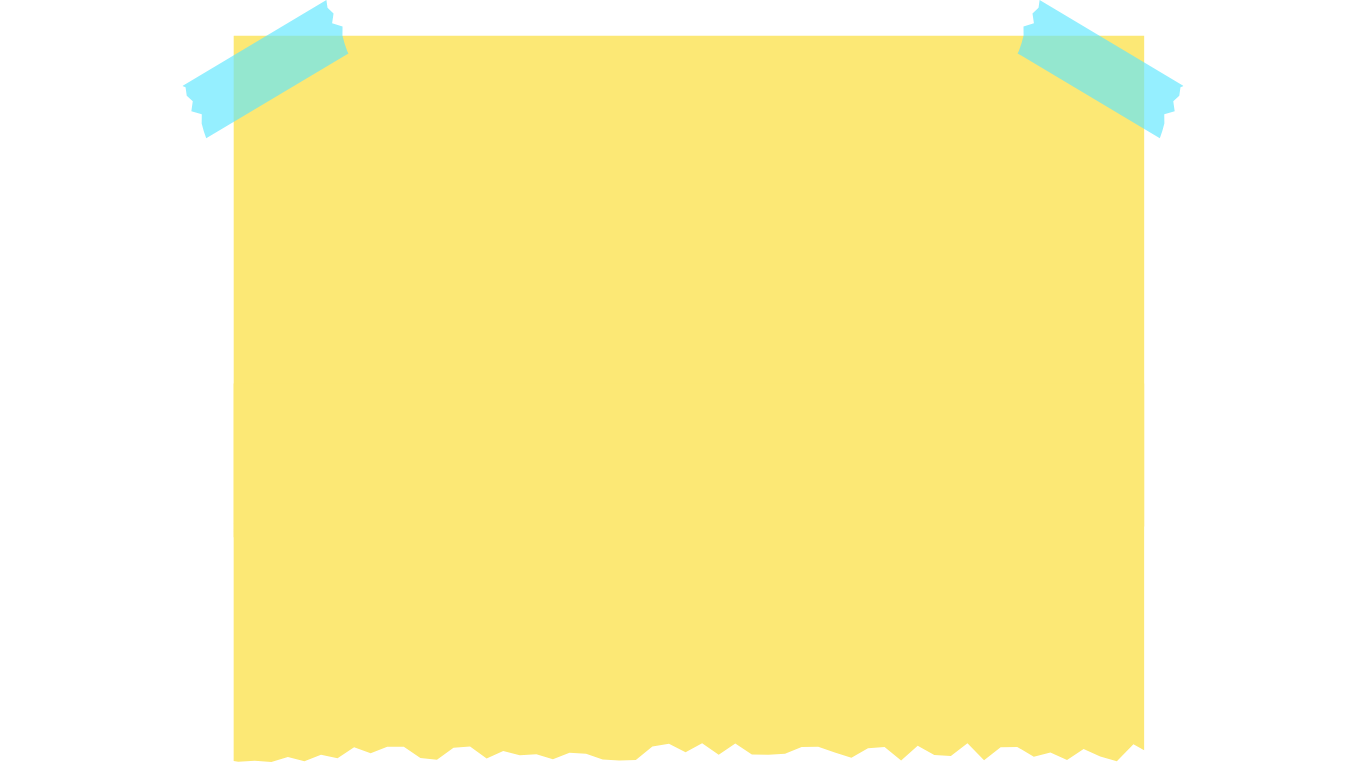
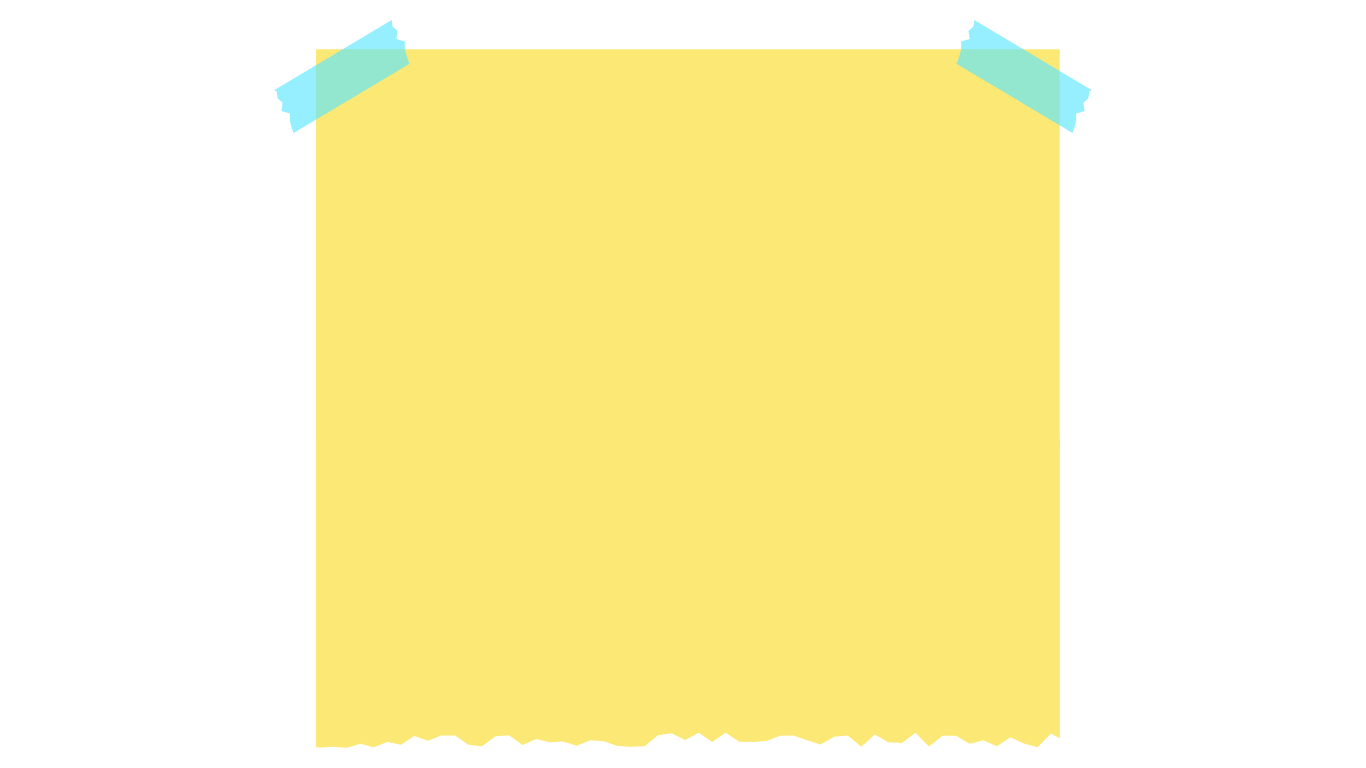
Cập nhật giao diện bảng xếp hạng: thay thế tiêu đề bằng hình ảnh và điều chỉnh kiểu dáng cho các thành phần liên quan

Changed region(s): [[0.123, 0.0, 0.8609, 1.0]]

diff --git a/views/dashboard/dashboard_styles.html b/views/dashboard/dashboard_styles.html
@@ -638,6 +638,10 @@
     display: block;
   }
 
+  .forest-leaderboard-card .frame-image.leaderboard-frame {
+    transform: translateX(-50%) scale(0.86);
+  }
+
   /* Ensure content overlays the frame image */
   .zone3-left .glass-card-header,
   .quest-card .glass-card-header {
@@ -662,7 +666,7 @@
     position: relative;
     z-index: 1;
     background: transparent !important;
-    padding: 120px 42px 85px 42px;
+    padding: 120px 32px 85px 32px;
   }
 
   .zone3-left .glass-card-body {
@@ -743,8 +747,8 @@
   .activity-hist-item.activity-clickable {
     cursor: pointer;
     border-radius: 8px;
-    padding: 0.75rem 0.5rem;
-    margin: 0 -0.5rem;
+    padding: 0.75rem 0.25rem;
+    margin: 0 -0.25rem;
   }
 
   .activity-hist-item:last-child {
@@ -802,6 +806,7 @@
   .activity-hist-content {
     flex: 1;
     min-width: 0;
+    max-width: calc(100% - 22px);
   }
 
   .activity-hist-top {
@@ -875,7 +880,7 @@
     display: flex;
     align-items: center;
     gap: 0.65rem;
-    padding: 0.4rem 0.2rem; /* Giảm khoảng cách giữa các item */
+    padding: 0.4rem 0.05rem; /* Giảm khoảng cách giữa các item */
     background: transparent;
     border-radius: 8px;
     margin-bottom: 0;
@@ -912,6 +917,7 @@
   .quest-body {
     flex: 1;
     min-width: 0;
+    max-width: calc(100% - 26px);
   }
 
   .quest-title {
@@ -2506,18 +2512,14 @@
 #page-dashboard .forest-leaderboard-card {
   position: relative !important;
   width: 100%;
-  min-height: 560px;
+  min-height: 640px;
   margin: 36px auto 70px !important;
   padding: 0 !important;
   overflow: visible !important;
   border-radius: 26px !important;
-  border: 2px solid rgba(79, 140, 91, 0.45) !important;
-  background:
-    radial-gradient(circle at 20% 18%, rgba(255, 255, 255, 0.9), transparent 26%),
-    linear-gradient(180deg, #f8fff6 0%, #edf8eb 100%) !important;
-  box-shadow:
-    0 22px 46px rgba(43, 91, 55, 0.18),
-    inset 0 0 0 1px rgba(255, 255, 255, 0.75) !important;
+  border: none !important;
+  background: transparent !important;
+  box-shadow: none !important;
 }
 
 /* Tắt ảnh nền bảng xếp hạng cũ */
@@ -2525,61 +2527,27 @@
   display: none !important;
 }
 
-/* Thanh tiêu đề xanh đậm phía trên */
-#page-dashboard .forest-leaderboard-card .forest-leaderboard-header {
-  position: relative !important;
-  top: auto !important;
-  left: auto !important;
-  width: 100%;
-  height: 86px;
-  display: flex !important;
-  justify-content: flex-start !important;
-  align-items: center !important;
-  padding: 0 36px !important;
-  border-radius: 24px 24px 0 0;
-  background:
-    linear-gradient(180deg, rgba(37, 105, 61, 0.98), rgba(24, 79, 45, 0.98)) !important;
-  border-bottom: 2px solid rgba(118, 174, 125, 0.5);
-  box-shadow:
-    inset 0 1px 0 rgba(255, 255, 255, 0.22),
-    0 8px 18px rgba(28, 89, 49, 0.14);
-  z-index: 5;
-}
-
-#page-dashboard .forest-title-board {
-  display: flex;
-  align-items: center;
-  gap: 16px;
-}
-
-#page-dashboard .forest-title-icon {
-  font-size: 1.65rem;
-}
-
-#page-dashboard .forest-title-content h3 {
-  font-family: "Fredoka", sans-serif;
-  font-size: 1.25rem;
-  font-weight: 900;
-  color: #ffffff !important;
-  margin: 0;
-  text-transform: none;
-  letter-spacing: 0.01em;
-  text-shadow: 0 2px 8px rgba(0, 0, 0, 0.18);
-}
-
 /* Vùng body của bảng */
 #page-dashboard .forest-leaderboard-card .glass-card-body {
   position: relative;
   z-index: 1;
-  padding: 0 !important;
+  padding: 44px 42px 44px !important;
   background: transparent !important;
+  display: flex;
+  align-items: center;
+  justify-content: center;
 }
 
 /* Board chính */
 #page-dashboard .lb-paper-board {
   position: relative;
-  min-height: 470px;
-  padding: 58px 56px 56px;
+  min-height: 560px;
+  width: 100%;
+  padding: 0;
+  display: flex;
+  flex-direction: column;
+  align-items: center;
+  justify-content: center;
 }
 
 /* Hai miếng băng dính như ảnh vẽ */
@@ -2600,32 +2568,28 @@
   box-shadow: 0 6px 12px rgba(42, 117, 111, 0.12);
 }
 
-#page-dashboard .lb-paper-tape.tape-left {
-  left: 122px;
-  transform: rotate(-23deg);
+#page-dashboard .lb-paper-tape,
+#page-dashboard .forest-leaderboard-card::after {
+  display: none !important;
 }
 
-#page-dashboard .lb-paper-tape.tape-right {
-  right: 122px;
-  transform: rotate(21deg);
-}
-
-/* Danh sách nằm bên trái, bên phải để trống đúng sketch */
+/* Danh sách phủ rộng toàn bộ vùng bảng */
 #page-dashboard .lb-paper-rows {
-  width: min(760px, 68%);
+  width: min(790px, 100%);
   display: flex;
   flex-direction: column;
   gap: 10px;
+  margin: 0 auto;
 }
 
 /* Một dòng: rank - avatar - tên - XP */
 #page-dashboard .lb-paper-row {
   display: grid;
-  grid-template-columns: 74px 58px minmax(180px, 1fr) 150px;
+  grid-template-columns: 62px 52px minmax(150px, 1fr) 126px;
   align-items: center;
-  column-gap: 18px;
+  column-gap: 12px;
   min-height: 44px;
-  padding: 4px 10px 4px 0;
+  padding: 4px 4px 4px 0;
   border-radius: 999px;
   transition:
     transform 0.2s ease,
@@ -2725,7 +2689,7 @@
 
 #page-dashboard .lb-paper-name {
   font-family: "Fredoka", sans-serif;
-  font-size: 1.02rem;
+  font-size: 0.95rem;
   font-weight: 800;
   color: #3d2a19;
   white-space: nowrap;
@@ -2735,7 +2699,7 @@
 
 #page-dashboard .lb-paper-xp {
   font-family: "Fredoka", sans-serif;
-  font-size: 0.92rem;
+  font-size: 0.84rem;
   font-weight: 800;
   color: #f59e0b;
   white-space: nowrap;
@@ -2759,14 +2723,15 @@
 /* Footer góc phải dưới */
 #page-dashboard .forest-leaderboard-footer {
   position: absolute;
-  right: 48px;
-  bottom: 28px;
+  left: 50%;
+  bottom: 18px;
   margin: 0 !important;
   font-family: "Fredoka", sans-serif;
   font-size: 0.86rem;
   font-weight: 700;
   color: rgba(57, 91, 64, 0.72);
-  text-align: right;
+  text-align: center;
+  transform: translateX(-50%);
 }
 
 /* Tắt các style cũ nếu còn render/cached */
@@ -2784,7 +2749,7 @@
   }
 
   #page-dashboard .lb-paper-board {
-    padding: 38px 18px 64px;
+    padding: 18px 14px 56px;
   }
 
   #page-dashboard .lb-paper-rows {
@@ -2792,8 +2757,8 @@
   }
 
   #page-dashboard .lb-paper-row {
-    grid-template-columns: 54px 48px minmax(0, 1fr) 94px;
-    column-gap: 10px;
+    grid-template-columns: 48px 42px minmax(0, 1fr) 82px;
+    column-gap: 8px;
   }
 
   #page-dashboard .lb-paper-rank {

diff --git a/views/dashboard/page_dashboard.html b/views/dashboard/page_dashboard.html
@@ -41,14 +41,7 @@
     <div class="dashboard-zone4">
       <!-- Leaderboard -->
       <section class="glass-card leaderboard-card forest-leaderboard-card">
-        <div class="forest-leaderboard-header">
-          <div class="forest-title-board">
-            <span class="forest-title-icon">🏆</span>
-            <div class="forest-title-content">
-              <h3>Bảng xếp hạng</h3>
-            </div>
-          </div>
-        </div>
+        <img src="https://cdn.jsdelivr.net/gh/twngvi/Doan@main/Image/Dashboard/bang_xep_hang.png?v=20260519-02" class="frame-image leaderboard-frame" alt="Bảng xếp hạng">
         <div class="glass-card-body" id="leaderboard-list">
           <div class="loading-state">
             <div class="loading-spinner"></div>

diff --git a/views/Pet/pet_styles.html b/views/Pet/pet_styles.html
@@ -110,7 +110,7 @@
 
   .ptl-right {
     position: absolute;
-    top: 20px;
+    top: 88px;
     right: 20px;
     display: flex;
     flex-direction: row;
@@ -783,7 +783,7 @@
   }
 
   .pet-stage-world {
-    position: absolute;
+    position: fixed;
     inset: 0;
     z-index: 2;
     overflow: hidden;
@@ -1794,7 +1794,7 @@
     }
 
     .ptl-right {
-      top: 12px;
+      top: 88px;
       right: 12px;
       left: 12px;
       width: auto;
@@ -2276,7 +2276,7 @@
 #page-pet .pet-card,
 #page-pet .pet-stage,
 #page-pet .pet-stage-world {
-  position: absolute;
+  position: fixed;
   inset: 0;
   width: 100%;
   height: 100%;
